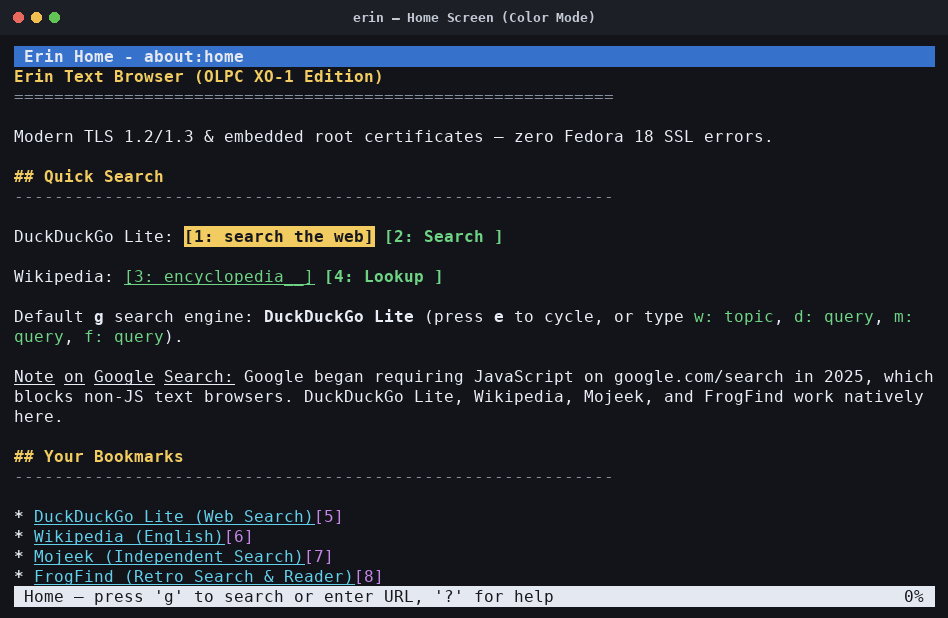
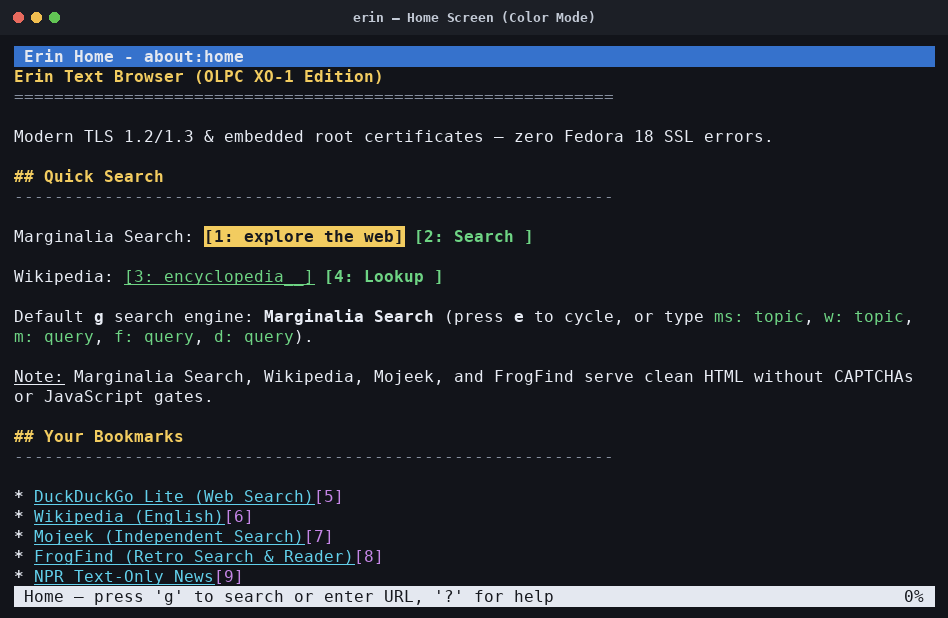
Add Marginalia Search (text-browser UI) and skip closed HTML5 dialogs/popovers

Changed region(s): [[0.0, 0.5841, 0.9789, 0.9531], [0.0, 0.4919, 0.9483, 0.5534], [0.0, 0.3382, 0.5506, 0.3997]]

diff --git a/internal/tui/app.go b/internal/tui/app.go
@@ -952,17 +952,17 @@ func (a *App) buildHomeHTML() string {
 	b.WriteString("<h1>Erin Text Browser (OLPC XO-1 Edition)</h1>")
 	b.WriteString("<p>Modern TLS 1.2/1.3 &amp; embedded root certificates — zero Fedora 18 SSL errors.</p>")
 
-	// Direct search form on Home screen!
+	// Direct search forms on Home screen!
 	b.WriteString("<h2>Quick Search</h2>")
-	b.WriteString(`<form method="GET" action="https://lite.duckduckgo.com/lite/">`)
-	b.WriteString(`<p>DuckDuckGo Lite: <input type="text" name="q" placeholder="search the web"> <input type="submit" value="Search"></p>`)
+	b.WriteString(`<form method="GET" action="https://old-search.marginalia.nu/search">`)
+	b.WriteString(`<p>Marginalia Search: <input type="text" name="query" placeholder="explore the web"> <input type="submit" value="Search"></p>`)
 	b.WriteString(`</form>`)
 	b.WriteString(`<form method="GET" action="https://en.wikipedia.org/w/index.php">`)
 	b.WriteString(`<p>Wikipedia: <input type="text" name="search" placeholder="encyclopedia"> <input type="submit" value="Lookup"></p>`)
 	b.WriteString(`</form>`)
 
-	fmt.Fprintf(&b, "<p>Default <b>g</b> search engine: <b>%s</b> (press <b>e</b> to cycle, or type <code>w: topic</code>, <code>d: query</code>, <code>m: query</code>, <code>f: query</code>).</p>", html.EscapeString(eng.Name))
-	b.WriteString("<p><i>Note on Google Search:</i> Google began requiring JavaScript on google.com/search in 2025, which blocks non-JS text browsers. DuckDuckGo Lite, Wikipedia, Mojeek, and FrogFind work natively here.</p>")
+	fmt.Fprintf(&b, "<p>Default <b>g</b> search engine: <b>%s</b> (press <b>e</b> to cycle, or type <code>ms: topic</code>, <code>w: topic</code>, <code>m: query</code>, <code>f: query</code>, <code>d: query</code>).</p>", html.EscapeString(eng.Name))
+	b.WriteString("<p><i>Note:</i> Marginalia Search, Wikipedia, Mojeek, and FrogFind serve clean HTML without CAPTCHAs or JavaScript gates.</p>")
 
 	b.WriteString("<h2>Your Bookmarks</h2><ul>")
 	for _, bm := range a.bookmarks {
@@ -1005,7 +1005,7 @@ func (a *App) buildHelpHTML() string {
 	return `<h1>Erin Browser — Keyboard Reference</h1>
 <h2>Navigation</h2>
 <ul>
-<li><b>g</b> — Go to URL or search (supports prefixes <code>d:</code> DuckDuckGo, <code>w:</code> Wikipedia, <code>m:</code> Mojeek, <code>f:</code> FrogFind, <code>g:</code> Google)</li>
+<li><b>g</b> — Go to URL or search (supports prefixes <code>ms:</code> Marginalia, <code>w:</code> Wikipedia, <code>m:</code> Mojeek, <code>f:</code> FrogFind, <code>d:</code> DuckDuckGo, <code>g:</code> Google)</li>
 <li><b>G</b> — Edit current URL</li>
 <li><b>Tab / Shift+Tab</b> (or <b>p</b>) — Focus next / previous link or form input</li>
 <li><b>0-9 then Enter</b> — Jump straight to numbered link or form field</li>

diff --git a/internal/config/config.go b/internal/config/config.go
@@ -27,7 +27,7 @@ func DefaultConfig() Config {
 	return Config{
 		Monochrome:   false,
 		ReaderMode:   false,
-		SearchEngine: "ddg",
+		SearchEngine: "marginalia",
 		UserAgent:    "firefox",
 		HomeURL:      "about:home",
 	}
@@ -36,10 +36,11 @@ func DefaultConfig() Config {
 // DefaultBookmarks returns a curated starter list of text-friendly informative sites.
 func DefaultBookmarks() []Bookmark {
 	return []Bookmark{
-		{Title: "DuckDuckGo Lite (Web Search)", URL: "https://lite.duckduckgo.com/lite/"},
+		{Title: "Marginalia Search (Small Web & Info)", URL: "https://old-search.marginalia.nu/"},
 		{Title: "Wikipedia (English)", URL: "https://en.wikipedia.org/wiki/Main_Page"},
 		{Title: "Mojeek (Independent Search)", URL: "https://www.mojeek.com/"},
 		{Title: "FrogFind (Retro Search & Reader)", URL: "http://frogfind.com/"},
+		{Title: "DuckDuckGo Lite (Web Search)", URL: "https://lite.duckduckgo.com/lite/"},
 		{Title: "NPR Text-Only News", URL: "https://text.npr.org/"},
 		{Title: "CNN Lite News", URL: "https://lite.cnn.com/"},
 		{Title: "68k.news (Text News Aggregator)", URL: "http://68k.news/"},
@@ -73,7 +74,7 @@ func LoadConfig() Config {
 	}
 	_ = json.Unmarshal(data, &cfg)
 	if cfg.SearchEngine == "" {
-		cfg.SearchEngine = "ddg"
+		cfg.SearchEngine = "marginalia"
 	}
 	if cfg.UserAgent == "" {
 		cfg.UserAgent = "firefox"

diff --git a/cmd/erin/main.go b/cmd/erin/main.go
@@ -18,7 +18,7 @@ func main() {
 		monoFlag   = flag.Bool("mono", false, "Start in monochrome mode (ideal for OLPC XO-1 sunlight display)")
 		colorFlag  = flag.Bool("color", false, "Start in color mode")
 		readerFlag = flag.Bool("reader", false, "Enable Reader Mode (main-content extraction)")
-		engineFlag = flag.String("engine", "", "Default search engine: ddg, wiki, mojeek, frogfind, google")
+		engineFlag = flag.String("engine", "", "Default search engine: marginalia, ddg, wiki, mojeek, frogfind, google")
 		uaFlag     = flag.String("ua", "", "User-Agent profile: firefox, mobile, classic")
 		dumpFlag   = flag.Bool("dump", false, "Fetch and print rendered text to stdout, then exit")
 		widthFlag  = flag.Int("width", 80, "Column width used with --dump")

diff --git a/internal/htmlrender/render_test.go b/internal/htmlrender/render_test.go
@@ -93,3 +93,19 @@ func TestReaderModeStripsNavClutter(t *testing.T) {
 		t.Fatalf("reader mode missing main article body:\n%s", plain)
 	}
 }
+
+func TestClosedDialogIsSkipped(t *testing.T) {
+	sample := `<html><body>
+  <dialog><p>Hidden Filter Modal</p></dialog>
+  <dialog open><p>Visible Open Dialog</p></dialog>
+  <p>Main Search Result</p>
+</body></html>`
+	doc := RenderHTML(sample, "https://marginalia-search.com/", 80, false)
+	plain := DumpPlain(doc)
+	if strings.Contains(plain, "Hidden Filter Modal") {
+		t.Fatalf("closed <dialog> should be skipped, got:\n%s", plain)
+	}
+	if !strings.Contains(plain, "Visible Open Dialog") || !strings.Contains(plain, "Main Search Result") {
+		t.Fatalf("expected open dialog and main result, got:\n%s", plain)
+	}
+}

diff --git a/internal/netclient/client_test.go b/internal/netclient/client_test.go
@@ -19,6 +19,7 @@ func TestResolveInput(t *testing.T) {
 		{"localhost:8080/test", "http://localhost:8080/test"},
 		{"about:bookmarks", "about:bookmarks"},
 		{"olpc xo-1 specs", "https://lite.duckduckgo.com/lite/?q=olpc+xo-1+specs"},
+		{"ms: olpc xo-1", "https://old-search.marginalia.nu/search?query=olpc+xo-1"},
 		{"w: AMD Geode", "https://en.wikipedia.org/w/index.php?search=AMD+Geode"},
 		{"m: fedora 18", "https://www.mojeek.com/search?q=fedora+18"},
 		{"f: retro web", "http://frogfind.com/?q=retro+web"},

diff --git a/internal/netclient/client.go b/internal/netclient/client.go
@@ -44,6 +44,12 @@ type SearchEngine struct {
 // SearchEngines lists available built-in search engines in cycle order.
 var SearchEngines = []SearchEngine{
 	{
+		ID:          "marginalia",
+		Name:        "Marginalia Search",
+		Prefix:      "ms:",
+		URLTemplate: "https://old-search.marginalia.nu/search?query=%s",
+	},
+	{
 		ID:          "ddg",
 		Name:        "DuckDuckGo Lite",
 		Prefix:      "d:",

diff --git a/internal/htmlrender/render.go b/internal/htmlrender/render.go
@@ -1141,7 +1141,10 @@ func resolveURL(base, ref string) string {
 }
 
 func shouldSkipNode(n *html.Node, tag string, readerMode bool) bool {
-	if hasAttr(n, "hidden") {
+	if hasAttr(n, "hidden") || hasAttr(n, "popover") {
+		return true
+	}
+	if tag == "dialog" && !hasAttr(n, "open") {
 		return true
 	}
 	if strings.EqualFold(getAttr(n, "aria-hidden"), "true") {

diff --git a/README.md b/README.md
@@ -129,7 +129,7 @@ erin [options] [url-or-search]
 | `--mono` | saved config | Start in strict Monochrome Mode (zero ANSI color codes) |
 | `--color` | saved config | Start in 16-color ANSI mode |
 | `--reader` | saved config | Start with Reader Mode enabled |
-| `--engine <id>` | `ddg` | Default search engine: `ddg`, `wiki`, `mojeek`, `frogfind`, `google` |
+| `--engine <id>` | `marginalia` | Default search engine: `marginalia`, `ddg`, `wiki`, `mojeek`, `frogfind`, `google` |
 | `--ua <profile>` | `firefox` | User-Agent profile: `firefox`, `mobile`, `classic` |
 | `--dump` | `false` | Fetch a URL/query, print rendered plain text to stdout, and exit |
 | `--width <cols>` | `80` | Column width used with `--dump` |
@@ -186,7 +186,7 @@ erin --dump --reader --width 76 https://en.wikipedia.org/wiki/OLPC_XO
 | `r` | Toggle **Reader Mode** (persisted automatically) |
 | `b` | Open **Bookmarks** page (`d` deletes the focused bookmark) |
 | `a` | Add the current page to Bookmarks |
-| `e` | Cycle default search engine (`ddg` → `wiki` → `mojeek` → `frogfind` → `google`) |
+| `e` | Cycle default search engine (`marginalia` → `ddg` → `wiki` → `mojeek` → `frogfind` → `google`) |
 | `U` | Cycle User-Agent (`Firefox Linux` → `Mobile Web` → `Erin XO-1`) |
 | `Ctrl+L` | Force screen redraw & resize recalculation |
 | `h` or `?` | Open built-in Help screen |
@@ -209,17 +209,19 @@ Typing any query into the `g` bar searches using your active search engine. You 
 
 | Prefix | Engine | Example |
 |---|---|---|
-| `d:` | **DuckDuckGo Lite** *(default)* | `d: fedora 18 olpc` |
+| `ms:` | **Marginalia Search** *(default — small-web & informative text sites)* | `ms: olpc xo-1` |
+| `d:` | **DuckDuckGo Lite** | `d: fedora 18 olpc` |
 | `w:` | **Wikipedia** | `w: AMD Geode` |
 | `m:` | **Mojeek** (independent HTML search) | `m: text mode browser` |
 | `f:` | **FrogFind** (retro search + HTML simplifier) | `f: linux terminal tips` |
 | `g:` | **Google** | `g: example` |
 
-### Why Google Search Doesn't Work Directly in Pure Text Mode
+### Why Google Search & DuckDuckGo Can Block Text Browsers
 
-Beginning in 2025, Google started requiring JavaScript execution on `www.google.com/search`. Because an AMD Geode LX-700 with 256 MB RAM cannot run a modern JavaScript engine (like V8/SpiderMonkey), pure text-mode browsers cannot execute Google's JS-gated search frontend directly.
+- **Google Search**: Beginning in 2025, Google started requiring JavaScript execution on `www.google.com/search`, which prevents pure text-mode browsers from loading Google results directly.
+- **DuckDuckGo Lite**: Frequently serves anti-bot CAPTCHAs to non-JS/text clients based on TLS fingerprint and rate limiting.
 
-**DuckDuckGo Lite**, **Mojeek**, **FrogFind**, and **Wikipedia** serve fast, clean, pure-HTML results with zero JavaScript required and work reliably on the XO-1.
+**Marginalia Search**, **Wikipedia**, **Mojeek**, and **FrogFind** serve fast, clean, pure-HTML results with zero JavaScript required and are ideal for the XO-1.
 
 ---
 
@@ -235,7 +237,7 @@ Created and updated automatically when you toggle settings (`m`, `r`, `e`, `U`):
 {
   "monochrome": true,
   "reader_mode": false,
-  "search_engine": "ddg",
+  "search_engine": "marginalia",
   "user_agent": "firefox",
   "home_url": "about:home"
 }
@@ -243,7 +245,7 @@ Created and updated automatically when you toggle settings (`m`, `r`, `e`, `U`):
 
 ### `~/.config/erin/bookmarks.json`
 
-Pre-populated on first run with text-friendly informative sites (DuckDuckGo Lite, Wikipedia, Simple English Wikipedia, Wikibooks, Mojeek, FrogFind, NPR Text-Only, CNN Lite, 68k.news, Hacker News). You can manage bookmarks in-app (`a` to add, `b` to browse, `d` to delete) or edit the JSON file directly:
+Pre-populated on first run with text-friendly informative sites (Marginalia Search, Wikipedia, Simple English Wikipedia, Wikibooks, Mojeek, FrogFind, DuckDuckGo Lite, NPR Text-Only, CNN Lite, 68k.news, Hacker News). You can manage bookmarks in-app (`a` to add, `b` to browse, `d` to delete) or edit the JSON file directly:
 
 ```json
 [
